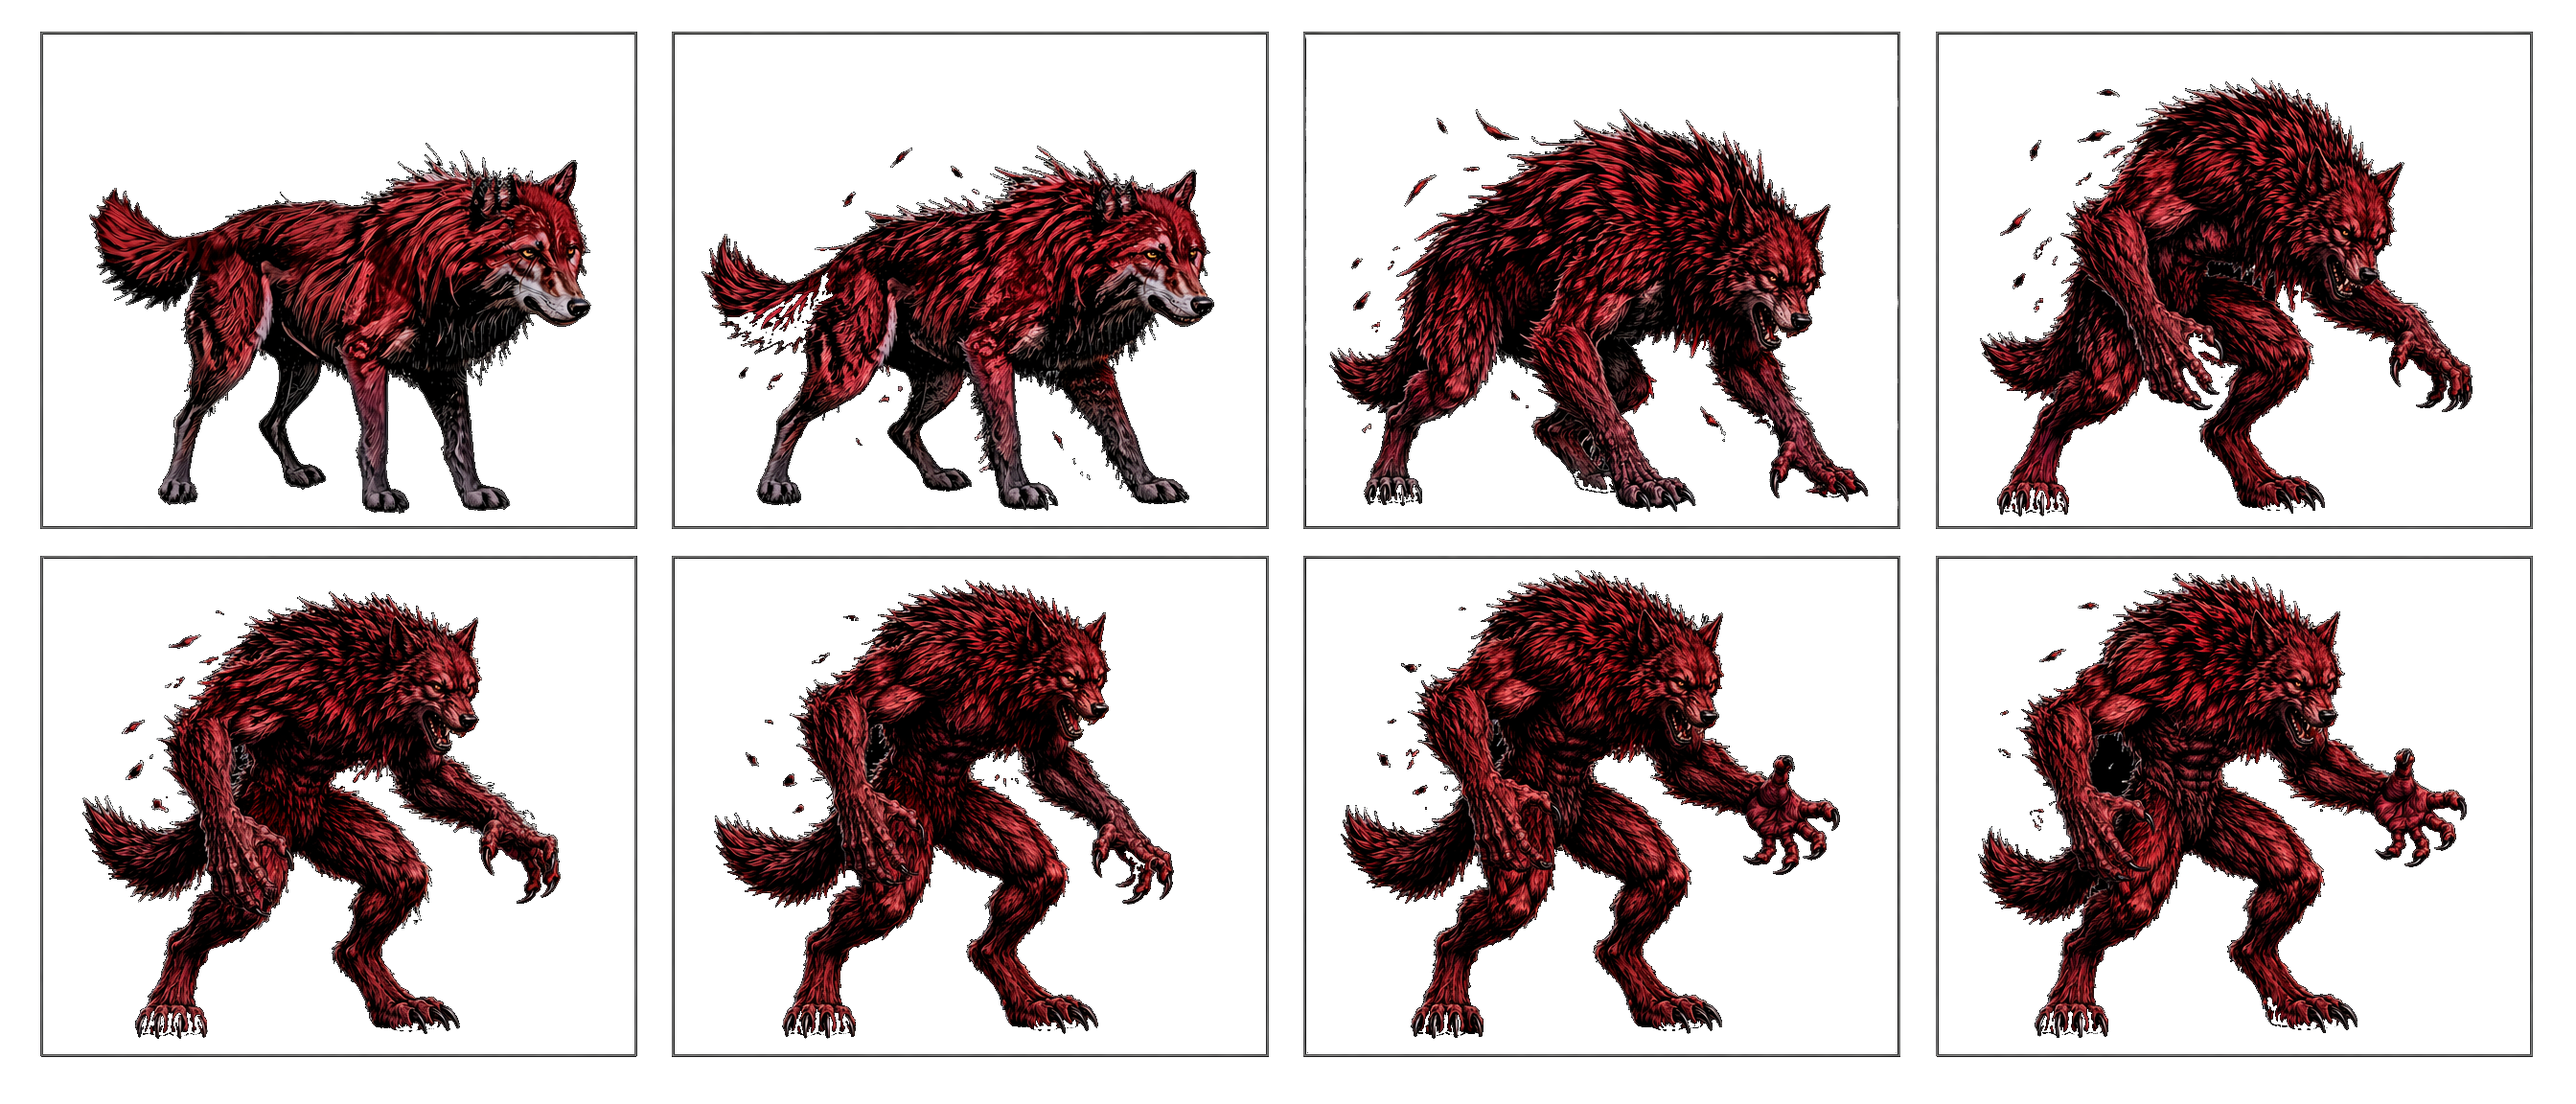
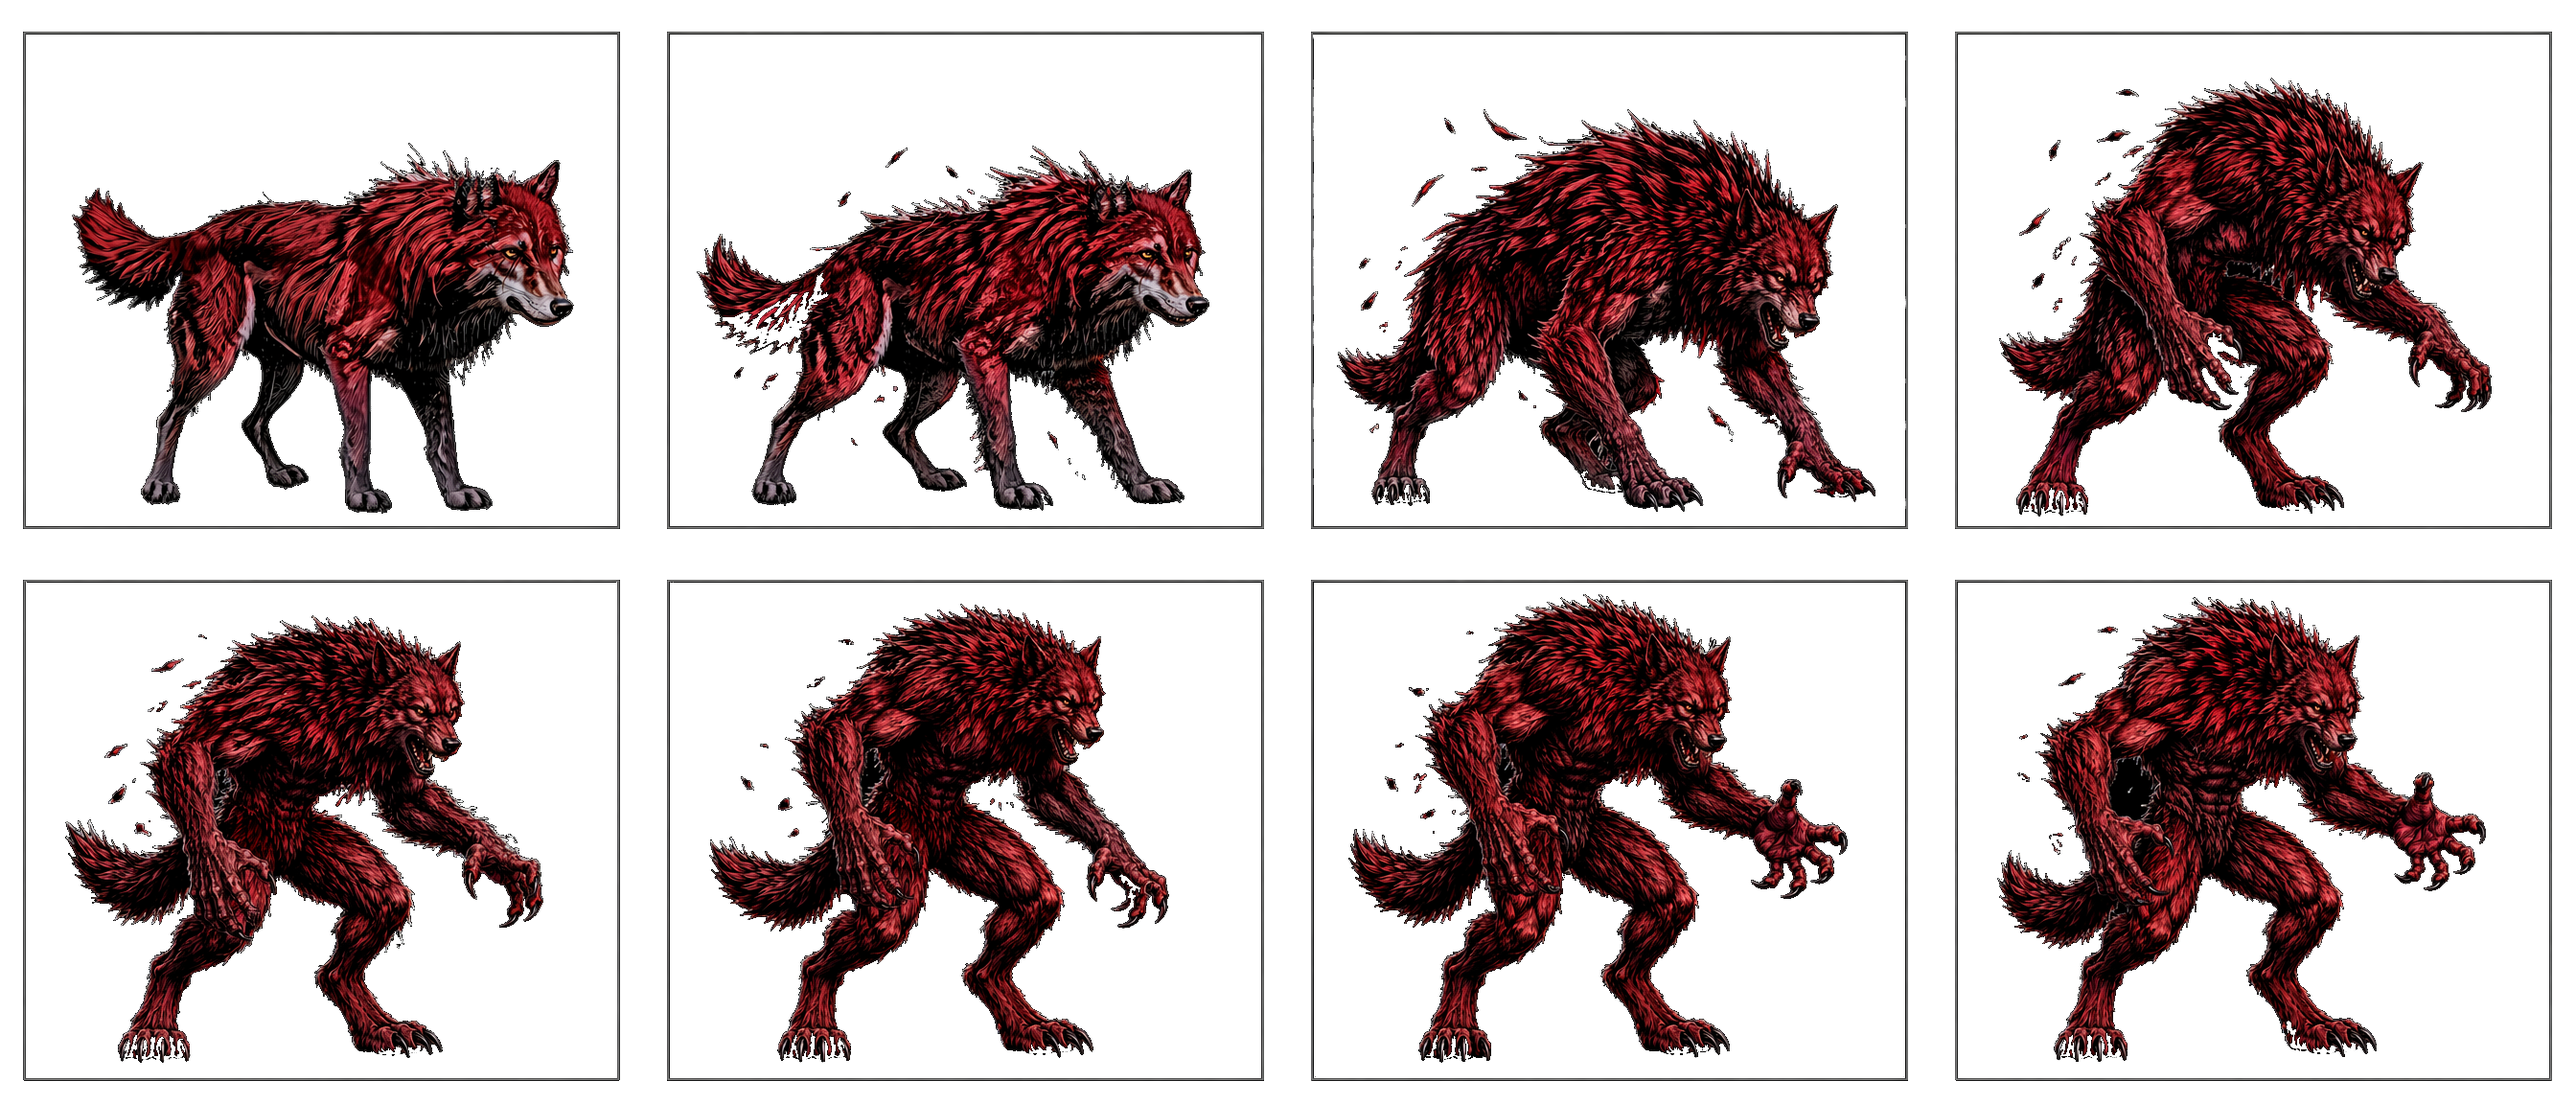
feat: sprite-normalizer 支持底部对齐，嚎叫精灵图底部对齐标准化，恢复帧循环
Condensed 3 adjacent commits from the original history:
- 149ae7ee feat: sprite-normalizer 支持底部对齐，嚎叫精灵图底部对齐标准化，恢复帧循环
- 0cbe5672 fix: 嚎叫精灵图底部对齐不缩放，保持原始大小
- 0850023e fix: 变身+嚎叫精灵图统一底部到552px，两段动画完全水平对齐

Changed region(s): [[0.0, 0.5, 1.0, 0.9688], [0.5, 0.0625, 0.9688, 0.4688], [0.0, 0.125, 0.4688, 0.4688]]

diff --git a/src/entities/enemy-types.js b/src/entities/enemy-types.js
@@ -650,8 +650,13 @@ class RedWolfKing extends Enemy {
         // === 嚎叫动画进行中 ===
         if (this._isHowling) {
             this._howlTimer -= dt;
-            // 嚎叫动画：固定显示第4帧（仰头最高点），静态姿势不循环
-            this._animFrame = 4;
+            // 更新嚎叫帧动画（8帧，2秒内播完，底部对齐后脚不动）
+            this._animTimer += dt;
+            const howlFrameDuration = this._howlDuration / 8;
+            if (this._animTimer >= howlFrameDuration) {
+                this._animTimer = 0;
+                this._animFrame = (this._animFrame + 1) % 8;
+            }
             // 嚎叫完成
             if (this._howlTimer <= 0) {
                 this._isHowling = false;

diff --git a/tools/sprite-normalizer.py b/tools/sprite-normalizer.py
@@ -75,11 +75,38 @@ def analyze_sprite_sheet(path, frame_w, frame_h, cols, rows):
 
 def normalize_sprite_sheet(src_path, dst_path, frame_w, frame_h, cols, rows,
                            target_content_w, target_content_h,
-                           target_center_x, target_center_y):
-    """标准化单个精灵图：缩放+平移使内容一致"""
+                           target_center_x, target_center_y,
+                           align_mode='center'):
+    """标准化单个精灵图：缩放+平移使内容一致
+
+    align_mode:
+      - center: 内容中心对齐到 target_center（默认，适合原地动画）
+      - bottom: 内容底部对齐到统一位置（适合脚着地的动画，如走路、嚎叫）
+      - top:    内容顶部对齐到统一位置（适合从上往下看的动画）
+    """
     img = Image.open(src_path)
     if img.mode != 'RGBA':
         img = img.convert('RGBA')
+
+    # 先分析所有帧，获取对齐基准
+    all_frames = []
+    for r in range(rows):
+        for c in range(cols):
+            bounds = get_frame_bounds(img, frame_w, frame_h, c, r)
+            if bounds:
+                all_frames.append(bounds)
+
+    if not all_frames:
+        return None
+
+    # 计算对齐基准
+    if align_mode == 'bottom':
+        # 所有帧底部对齐到最靠下的底部
+        target_align_y = max(f['bottom'] for f in all_frames)
+    elif align_mode == 'top':
+        target_align_y = min(f['top'] for f in all_frames)
+    else:  # center
+        target_align_y = None  # 使用 target_center_y
 
     # 创建新画布
     new_img = Image.new('RGBA', (frame_w * cols, frame_h * rows), (0, 0, 0, 0))
@@ -110,9 +137,18 @@ def normalize_sprite_sheet(src_path, dst_path, frame_w, frame_h, cols, rows,
             else:
                 continue
 
-            # 计算平移位置：使缩放后内容的中心对齐到 target_center
-            dest_x = int(round(target_center_x - new_w / 2.0))
-            dest_y = int(round(target_center_y - new_h / 2.0))
+            # 根据对齐模式计算目标位置
+            if align_mode == 'bottom':
+                # 底部对齐：内容底部对齐到 target_align_y
+                dest_x = int(round(target_center_x - new_w / 2.0))
+                dest_y = int(round(target_align_y - new_h))
+            elif align_mode == 'top':
+                # 顶部对齐：内容顶部对齐到 target_align_y
+                dest_x = int(round(target_center_x - new_w / 2.0))
+                dest_y = int(round(target_align_y))
+            else:  # center
+                dest_x = int(round(target_center_x - new_w / 2.0))
+                dest_y = int(round(target_center_y - new_h / 2.0))
 
             # 在目标帧中的绝对位置
             frame_offset_x = c * frame_w + dest_x
@@ -143,6 +179,8 @@ def main():
     parser.add_argument('--rows', type=int, required=True, help='总行数')
     parser.add_argument('--mode', choices=['fit', 'fill'], default='fit',
                         help='fit=缩放适应到统一内容大小（保持比例，不裁剪）; fill=缩放到填满统一内容大小（可能变形）')
+    parser.add_argument('--align-mode', choices=['center', 'bottom', 'top'], default='center',
+                        help='center=内容中心对齐（默认，适合原地动画）; bottom=内容底部对齐（适合脚着地的动画，如走路/嚎叫）; top=内容顶部对齐（适合从上往下看的动画）')
     parser.add_argument('--target-content-w', type=float, help='目标内容宽度（默认取所有输入中的最大值）')
     parser.add_argument('--target-content-h', type=float, help='目标内容高度（默认取所有输入中的最大值）')
     parser.add_argument('--target-center-x', type=float, help='目标内容中心 X（默认取帧中心）')
@@ -173,7 +211,7 @@ def main():
     target_cx = args.target_center_x if args.target_center_x else args.frame_width / 2.0
     target_cy = args.target_center_y if args.target_center_y else args.frame_height / 2.0
 
-    print(f'[统一] 目标内容大小: {target_w:.1f}x{target_h:.1f}, 目标中心: ({target_cx:.1f}, {target_cy:.1f})')
+    print(f'[统一] 目标内容大小: {target_w:.1f}x{target_h:.1f}, 目标中心: ({target_cx:.1f}, {target_cy:.1f}), 对齐模式: {args.align_mode}')
 
     if args.report:
         report_path = os.path.join(args.output, 'sprite-normalize-report.json')
@@ -191,7 +229,8 @@ def main():
         dst = os.path.join(args.output, os.path.basename(src))
         new_size = normalize_sprite_sheet(
             src, dst, args.frame_width, args.frame_height, args.cols, args.rows,
-            target_w, target_h, target_cx, target_cy
+            target_w, target_h, target_cx, target_cy,
+            align_mode=args.align_mode
         )
         print(f'[输出] {os.path.basename(dst)} -> {new_size}')
 
@@ -201,6 +240,7 @@ def main():
         'frame_height': args.frame_height,
         'cols': args.cols,
         'rows': args.rows,
+        'align_mode': args.align_mode,
         'target_content': {'width': target_w, 'height': target_h, 'center_x': target_cx, 'center_y': target_cy},
         'sprites': [{'file': os.path.basename(a['file']), 'original_size': a['size']} for a in analyses]
     }
